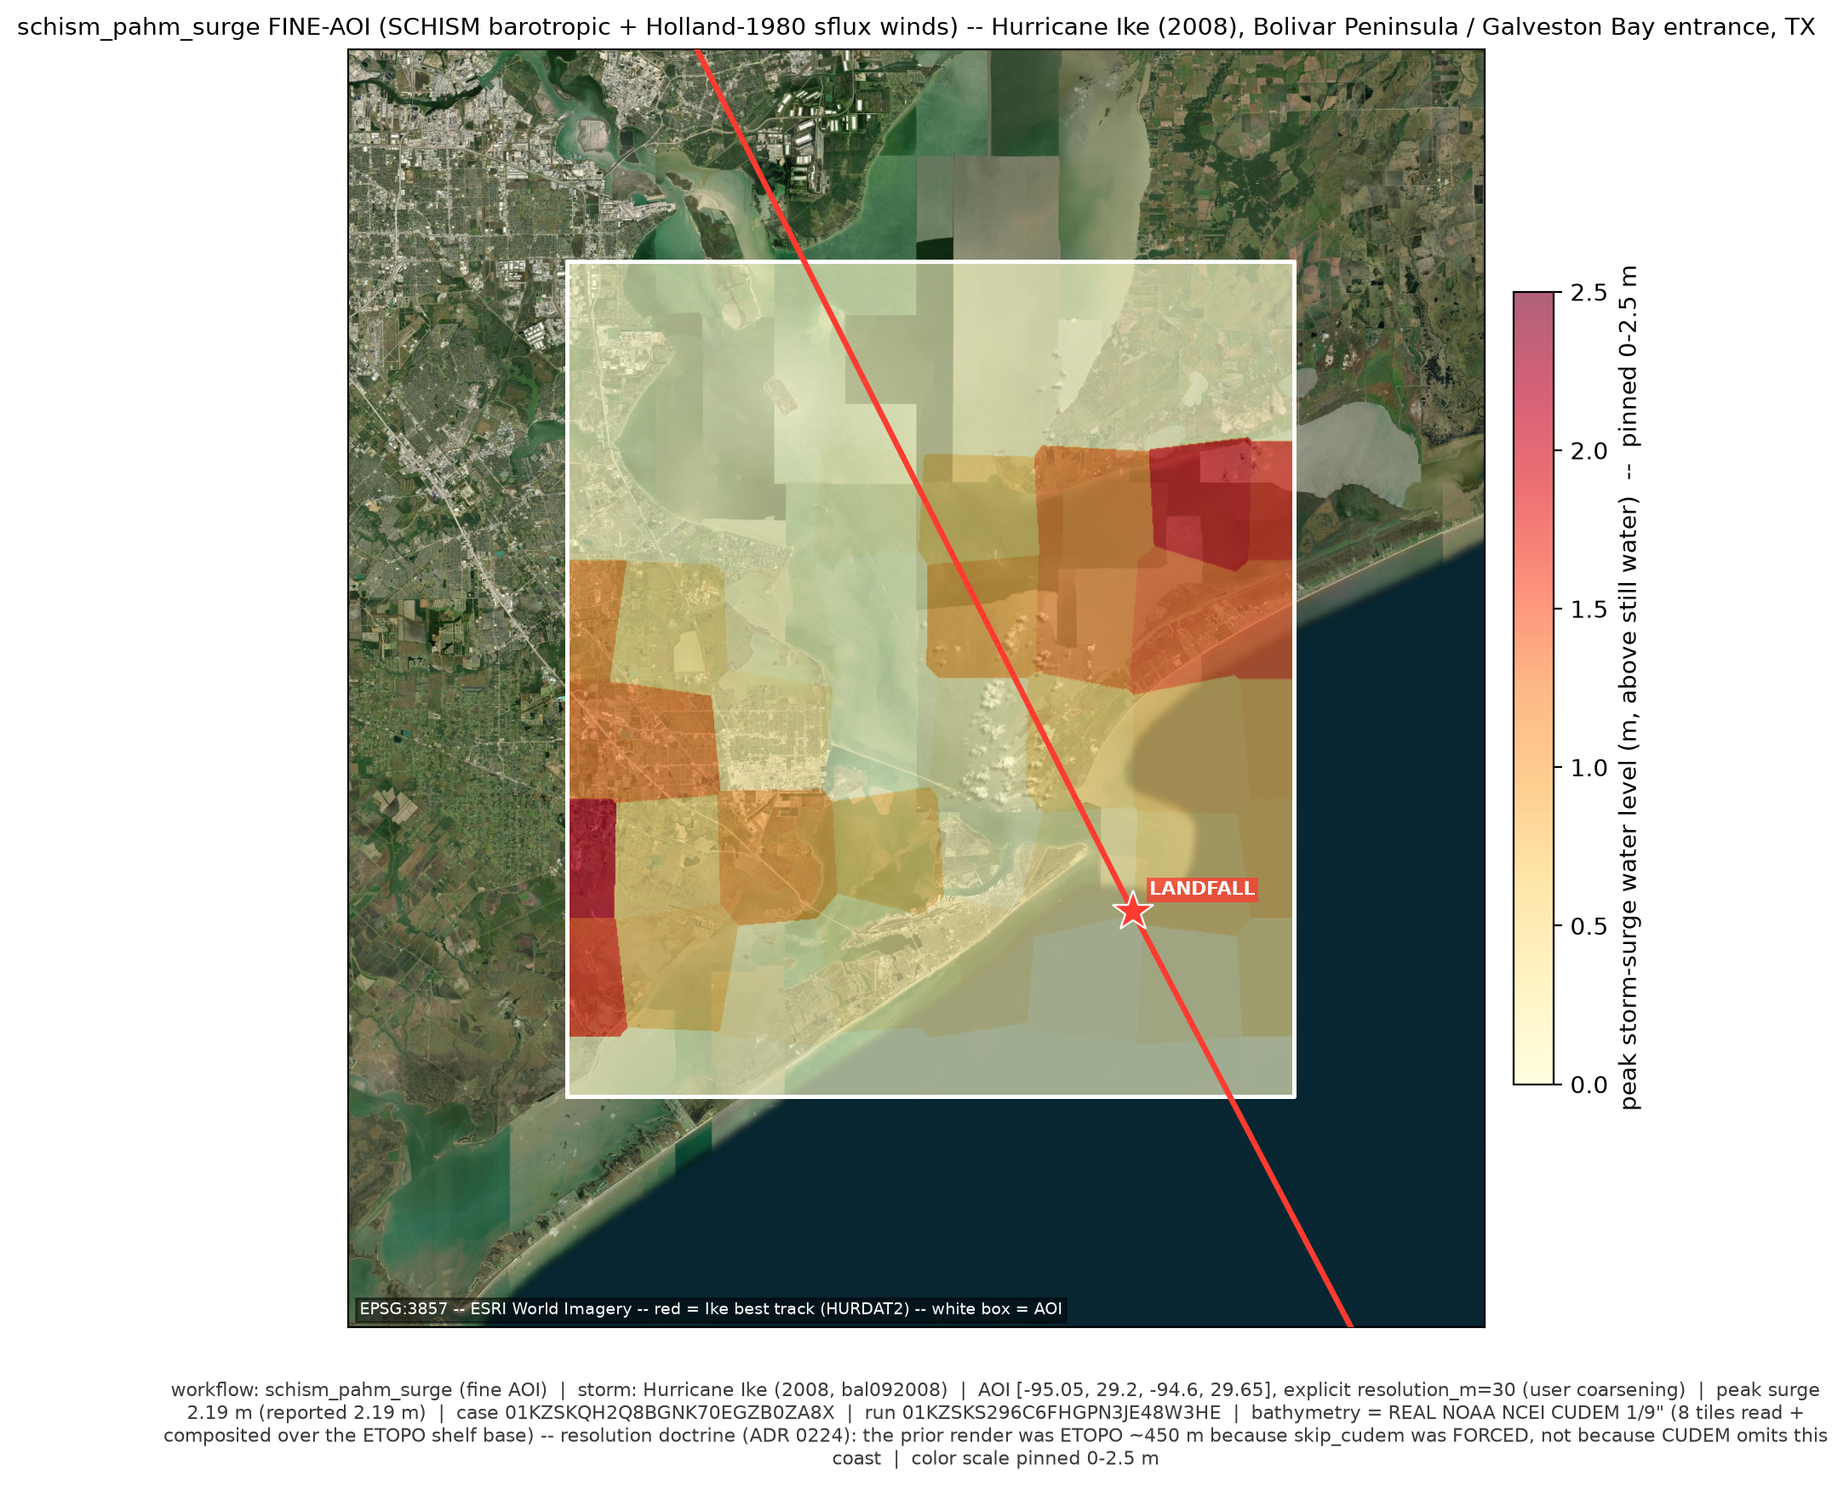
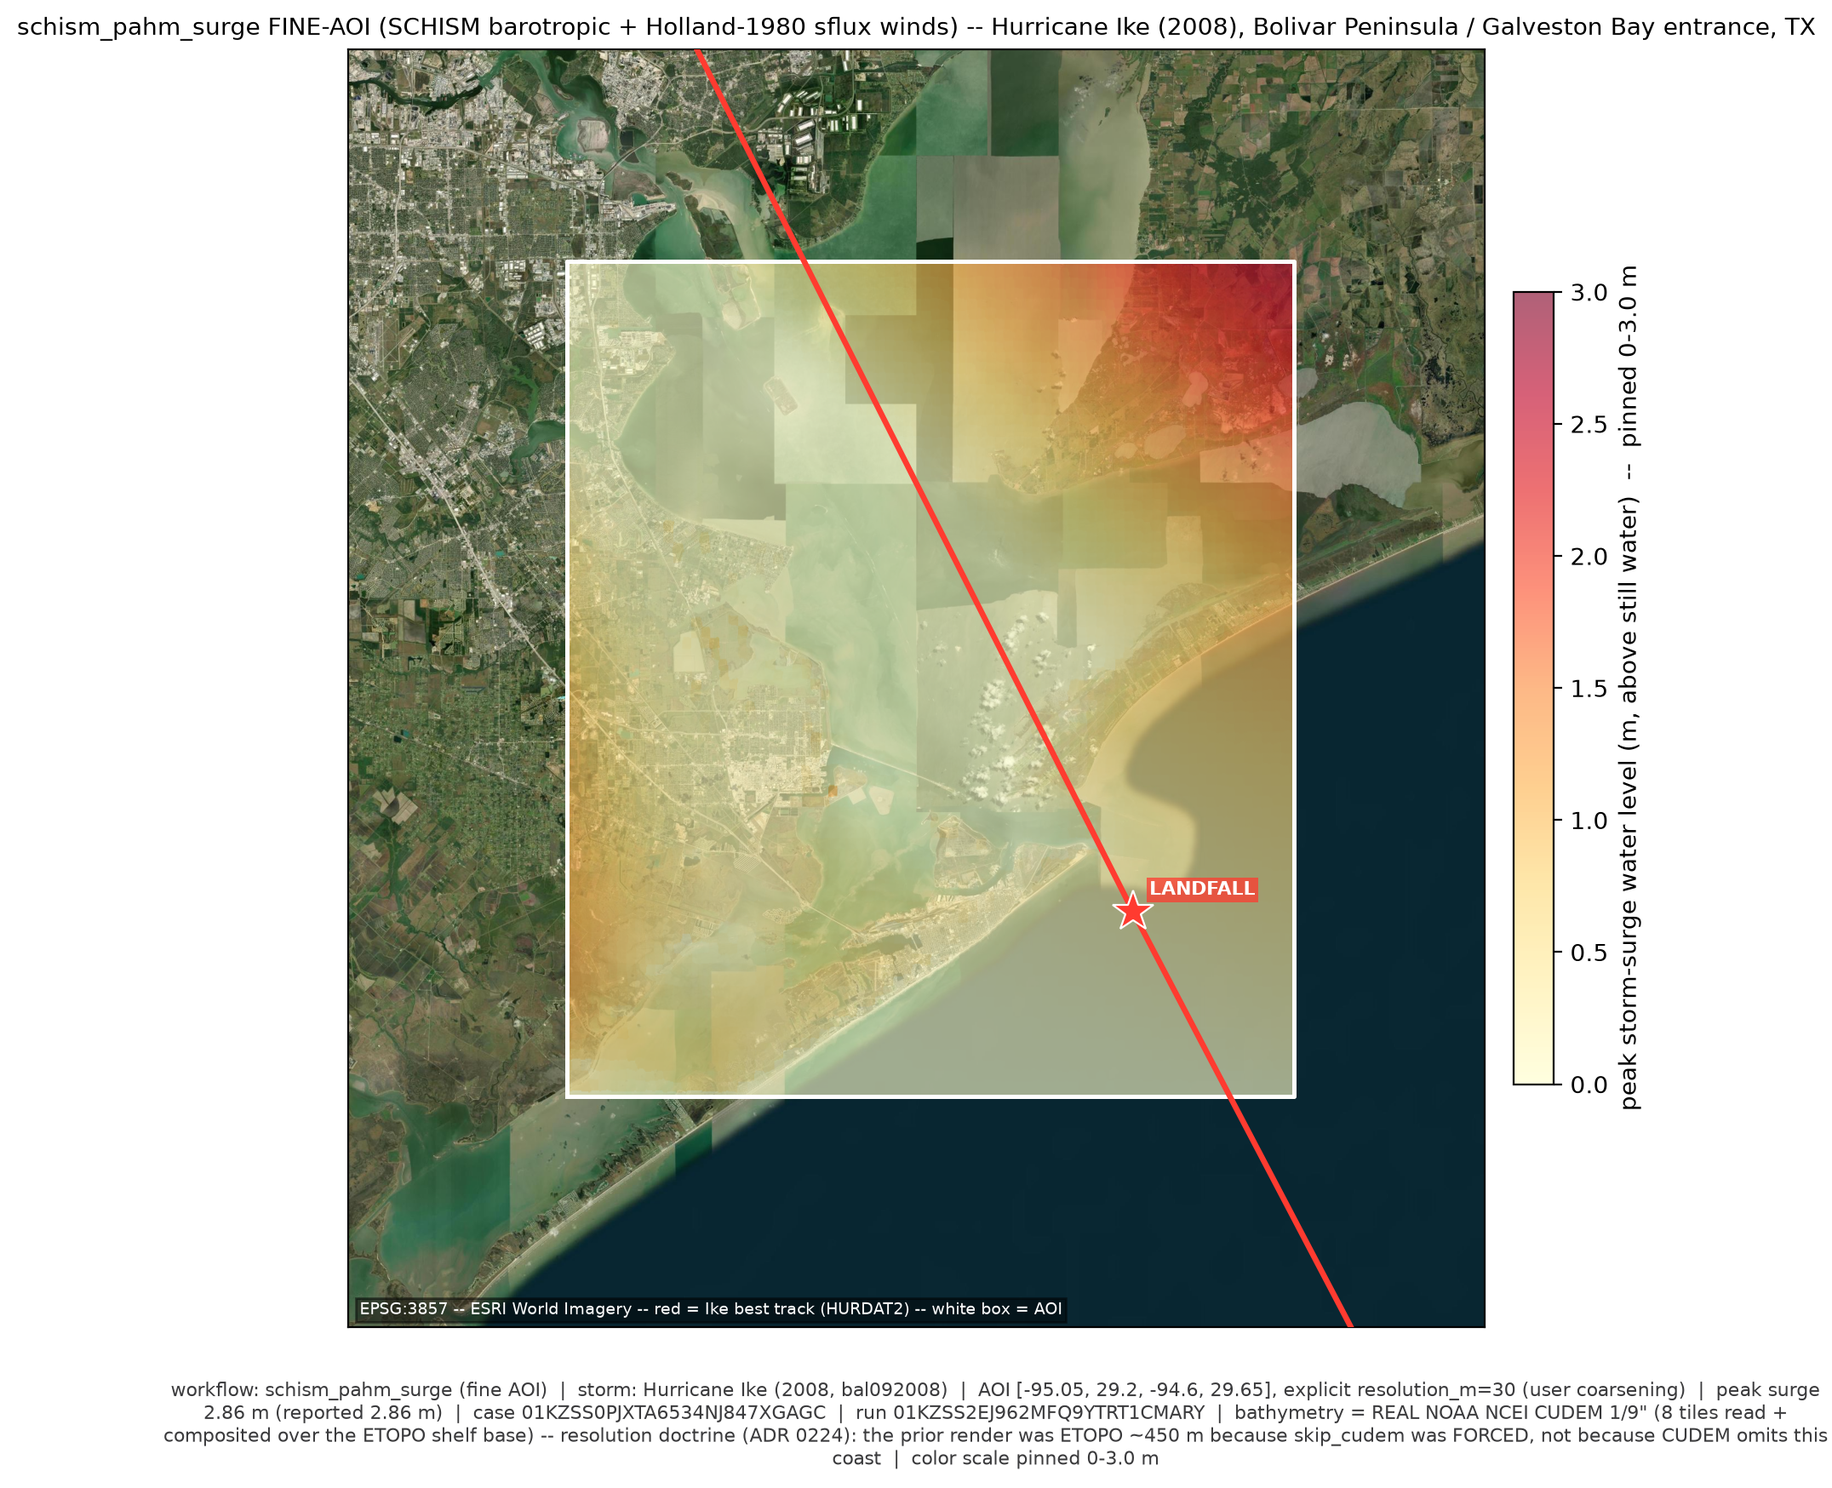
fix(schism): TIN density regression - resolution_m now drives the mesh, declared node budget (ADR 0224 append)
NATE caught it on the proof: the 0224 rewiring fed resolution_m to
the bathy fetch but decoupled it from the TIN sizing, collapsing
the fine Bolivar mesh to the 64-node clamp floor - coarser than
every prior version despite real CUDEM underneath. Fixed: an
explicit fine ask drives mesh density (cell ~ max(resolution_m,
solver floor)); the node-budget ceiling is DECLARED per the clamp
ruling (docstring + envelope label when it binds; evidence-based -
the ~440-node runs solved in ~30 s so thousands are affordable
locally). Native path unchanged. Re-drive: 6400 nodes (100x), peak
2.86 m, run 01KZSS2EJ962MFQ9YTRT1CMARY; proof re-rendered - the
field is now smooth and continuous, visibly finer than every prior
version. Orchestrator also fixed the render script's stale-COG
cache (fixed filename served the old run's raster) + stale peak
constant. +tests for density scaling and the labeled ceiling.

diff --git a/server/src/trid3nt_server/agent/workflows/schism/pahm_surge/pahm_surge.py b/server/src/trid3nt_server/agent/workflows/schism/pahm_surge/pahm_surge.py
@@ -99,12 +99,65 @@ _SURGE_RES_MAX_M = 1000.0
 #: doctrine's "bounded grid dimension" -- 500-800 px is enough detail for a
 #: barotropic screening surge without an oversized composite).
 _SURGE_BATHY_TARGET_PX = 750.0
-#: Target AOI kilometres per internal-TIN node (per axis) -- the "sane node
-#: budget": denser than this wastes solve time on a screening barotropic surge,
-#: coarser loses the coastal surge structure (right-of-track lobe, bay funneling).
+#: Target AOI kilometres per internal-TIN node (per axis) -- the NATIVE-default
+#: "sane node budget": denser than this wastes solve time on a screening barotropic
+#: surge, coarser loses the coastal surge structure (right-of-track lobe, bay
+#: funneling). This drives the TIN only on the NATIVE (resolution_m=None) path.
 _SURGE_TIN_KM_PER_NODE = 6.0
 _SURGE_TIN_DIM_MIN = 8
 _SURGE_TIN_DIM_MAX = 40
+#: The finest internal-TIN cell a screening barotropic surge will build regardless
+#: of an even-finer ask (m): mirrors the fetch resolution_m floor -- below this the
+#: graded coarse-TIN screening solve gains no physical fidelity, so the TIN target
+#: cell is max(resolution_m, this).
+_SURGE_TIN_CELL_FLOOR_M = _SURGE_RES_MIN_M  # 25 m
+#: DECLARED node-budget ceiling (per axis) for an EXPLICIT resolution_m ask -- the
+#: fidelity-first rule keys TIN density to the requested cell, bounded here. NOT a
+#: silent floor/ceiling: the envelope SAYS SO when this binds (declared-clamps
+#: ruling). Justification (evidence-based, not a guess): the barotropic screening
+#: solve's wall scales with node count; the 0217-0219 runs at ~440 nodes solved in
+#: ~30 s, so 80x80 = 6400 nodes (~15x the node count, a few minutes on the same
+#: local image) is a comfortably affordable ceiling that keeps a fine ask a
+#: screening-scale solve rather than an unbounded refinement.
+_SURGE_TIN_DIM_MAX_FINE = 80
+
+
+def _resolution_driven_tin_dims(
+    bbox: tuple[float, float, float, float], resolution_m: float
+) -> tuple[int, int, str]:
+    """Internal-TIN node grid for an EXPLICIT resolution_m ask: the requested cell
+    size drives MESH density (fidelity-first -- a fine ask buys a fine mesh, not just
+    a fine bathymetry fetch), bounded by the declared ``_SURGE_TIN_DIM_MAX_FINE``
+    node budget.
+
+    Target cell = ``max(resolution_m, _SURGE_TIN_CELL_FLOOR_M)``; nodes per axis =
+    AOI extent / cell, clamped to ``[_SURGE_TIN_DIM_MIN, _SURGE_TIN_DIM_MAX_FINE]``.
+    Returns ``(nx, ny, budget_note)`` where ``budget_note`` is non-empty ONLY when
+    the ceiling binds -- the clamp labels itself (no silent ceiling), quoting the
+    requested cell, the unclamped node grid, and the resulting effective cell.
+    """
+    west, south, east, north = bbox
+    mid_lat_rad = math.radians(0.5 * (south + north))
+    width_km = max(abs(east - west) * 111.320 * math.cos(mid_lat_rad), 1e-6)
+    height_km = max(abs(north - south) * 110.540, 1e-6)
+    cell_m = max(float(resolution_m), _SURGE_TIN_CELL_FLOOR_M)
+
+    want_nx = max(round(width_km * 1000.0 / cell_m), _SURGE_TIN_DIM_MIN)
+    want_ny = max(round(height_km * 1000.0 / cell_m), _SURGE_TIN_DIM_MIN)
+    nx = min(want_nx, _SURGE_TIN_DIM_MAX_FINE)
+    ny = min(want_ny, _SURGE_TIN_DIM_MAX_FINE)
+
+    note = ""
+    if nx < want_nx or ny < want_ny:
+        eff_cell_m = max(width_km * 1000.0 / nx, height_km * 1000.0 / ny)
+        note = (
+            f"requested ~{float(resolution_m):.0f} m cell wanted a {want_nx}x{want_ny} "
+            f"TIN; clamped to {nx}x{ny} by the {_SURGE_TIN_DIM_MAX_FINE}x"
+            f"{_SURGE_TIN_DIM_MAX_FINE}-node screening solver budget (effective mesh "
+            f"cell ~{eff_cell_m:.0f} m; the bathymetry fetch is still read at the "
+            f"requested resolution)"
+        )
+    return int(nx), int(ny), note
 
 
 def _autoscale_surge_domain(
@@ -623,10 +676,17 @@ async def model_schism_pahm_surge(
         resolved_res_m: float | None = float(resolution_m)
         fetch_res_m: float | None = float(resolution_m)
         res_basis: str = "user"
+        # Fidelity-first: an explicit resolution drives the MESH density too, not
+        # only the bathymetry fetch -- the requested cell keys the TIN, bounded by
+        # the declared node budget (which labels itself in the envelope if it binds).
+        tin_nx, tin_ny, tin_budget_note = _resolution_driven_tin_dims(bbox, resolved_res_m)
     else:
         resolved_res_m = None  # native
         fetch_res_m = None
         res_basis = "derived"  # the tool DERIVED native as the default (SyntheticInput basis)
+        # Native path: mesh density keys to the AOI-driven autoscale suggestion.
+        tin_nx, tin_ny = int(autoscale["tin_nx"]), int(autoscale["tin_ny"])
+        tin_budget_note = ""
 
     # --- Stage 3: mesh (case mesh via the gate, else internal TIN) ----------- #
     supplied_mesh, gate_open_side, mesh_gate_note = await _surge_mesh_gate(input_mode)
@@ -644,8 +704,7 @@ async def model_schism_pahm_surge(
         )
     else:
         open_side = open_boundary_side
-        points, cells = _build_internal_tin(
-            bbox, nx=int(autoscale["tin_nx"]), ny=int(autoscale["tin_ny"]))
+        points, cells = _build_internal_tin(bbox, nx=tin_nx, ny=tin_ny)
         # Bathymetry: fetch a topobathy/DEM COG; else a synthetic sloping shelf.
         bathy_override = os.environ.get("TRID3NT_SCHISM_BATHY_PATH")
         depths = None
@@ -740,12 +799,13 @@ async def model_schism_pahm_surge(
                    else "native (CUDEM 1/9\")"),
             units="m", basis=res_basis,
             note=(
-                f"user-supplied (overrides the {autoscale['resolution_m']:.0f} m autoscale "
-                "coarsening suggestion)" if res_basis == "user" else
+                (f"user-supplied (overrides the {autoscale['resolution_m']:.0f} m autoscale "
+                 f"coarsening suggestion); drives the mesh too -- TIN {tin_nx}x{tin_ny} nodes"
+                 + (f". {tin_budget_note}" if tin_budget_note else "")) if res_basis == "user" else
                 "NATIVE bathymetry (default): the fine CUDEM 1/9\" nearshore composite, "
                 f"bounded by the 12000 px guard; the ~{autoscale['resolution_m']:.0f} m "
                 "autoscale cell is offered as the coarsening hint on the payload gate. "
-                f"TIN {autoscale['tin_nx']}x{autoscale['tin_ny']} nodes"
+                f"TIN {tin_nx}x{tin_ny} nodes"
             ),
         ),
     ]

diff --git a/server/tests/test_resolution_doctrine_0224.py b/server/tests/test_resolution_doctrine_0224.py
@@ -198,3 +198,50 @@ def test_rb_surge_detail_native_offers_coarsening(_no_sample):
 def test_rb_surge_detail_explicit_names_grid(_no_sample):
     txt = surge.estimate_payload_mb_detail(bbox=list(BBOX), resolution_m=30)
     assert "30 m grid" in txt and "analytic" in txt
+
+
+# --------------------------------------------------------------------------- #
+# R-A (mesh): an explicit resolution_m drives the MESH density too, not only the
+# bathymetry fetch (the 2026-08-11 regression NATE caught on the fine Bolivar
+# proof: the fine re-drive fell to the 8x8=64-node autoscale FLOOR because
+# resolution_m fed the fetch but never _build_internal_tin). Bounded by a DECLARED
+# node budget that labels itself when it binds (declared-clamps ruling).
+# --------------------------------------------------------------------------- #
+
+
+def test_mesh_explicit_fine_scales_far_past_native_floor():
+    # The fine Bolivar box: native autoscale floors the TIN at 8x8=64 nodes, but an
+    # explicit 30 m ask must key the mesh to the requested cell (bounded by budget).
+    native = surge._autoscale_surge_domain(BBOX)
+    assert native["tin_nx"] * native["tin_ny"] == 64  # the pre-fix floor
+    nx, ny, note = surge._resolution_driven_tin_dims(BBOX, 30.0)
+    assert nx * ny >= 3600  # thousands of nodes, not 64
+    assert nx == surge._SURGE_TIN_DIM_MAX_FINE and ny == surge._SURGE_TIN_DIM_MAX_FINE
+
+
+def test_mesh_density_tracks_requested_cell_until_budget():
+    # Finer ask -> at least as many nodes as a coarser ask (monotone), and a coarse
+    # ask on a small box stays below the ceiling (density tracks the request).
+    small = (-95.05, 29.20, -94.95, 29.30)  # ~10 km
+    fine_nx, fine_ny, _ = surge._resolution_driven_tin_dims(small, 30.0)
+    coarse_nx, coarse_ny, _ = surge._resolution_driven_tin_dims(small, 900.0)
+    assert fine_nx * fine_ny >= coarse_nx * coarse_ny
+    assert coarse_nx < surge._SURGE_TIN_DIM_MAX_FINE  # coarse ask does not saturate
+
+
+def test_mesh_budget_ceiling_labels_itself_when_it_binds():
+    # A fine ask on a 45 km box overflows the node budget -> the clamp is DECLARED.
+    _, _, note = surge._resolution_driven_tin_dims(BBOX, 30.0)
+    assert note  # non-empty only when the ceiling binds
+    assert "clamped" in note and "solver budget" in note
+    assert "effective mesh cell" in note  # states what the mesh actually resolves
+
+
+def test_mesh_native_path_unchanged():
+    # resolution_m=None keeps the AOI-driven autoscale TIN (the path that was fine).
+    a = surge._autoscale_surge_domain(surge._IKE_BBOX)
+    assert surge._SURGE_TIN_DIM_MIN <= a["tin_nx"] <= surge._SURGE_TIN_DIM_MAX
+    assert surge._SURGE_TIN_DIM_MIN <= a["tin_ny"] <= surge._SURGE_TIN_DIM_MAX
+    # No node-budget note is produced on the native path (no explicit ask to clamp).
+    nx, ny, note = surge._resolution_driven_tin_dims(surge._IKE_BBOX, 900.0)
+    assert isinstance(note, str)

diff --git a/server/tests/test_schism_pahm_surge.py b/server/tests/test_schism_pahm_surge.py
@@ -354,6 +354,50 @@ def test_explicit_resolution_m_is_declared_coarsening(monkeypatch):
     assert entries["resolution_m"].basis == "user"
 
 
+def test_explicit_resolution_m_drives_dense_mesh_not_the_floor(monkeypatch):
+    """Fidelity-first (the 2026-08-11 regression fix): an explicit fine resolution_m
+    must key the MESH density, not only the bathymetry fetch. On the fine Bolivar box
+    the native autoscale floors the TIN at 8x8=64 nodes; a 30 m ask must instead build
+    thousands of nodes (up to the declared budget) and the resolution entry must LABEL
+    the node-budget clamp when it binds."""
+    import trid3nt_server.agent.workflows.schism.pahm_surge.pahm_surge as P
+
+    bolivar = (-95.05, 29.2, -94.6, 29.65)  # the AOI NATE re-drove
+
+    async def _fake_fetch(bbox, *, resolution_m=None, force_bathy_base=False, skip_land=False):
+        return "/tmp/fake_bathy.tif", "topobathy"
+
+    def _fake_sample(points, dem_path):
+        return np.full(len(points), 10.0, dtype=float)
+
+    monkeypatch.setattr(P, "_fetch_bathymetry_cog", _fake_fetch)
+    monkeypatch.setattr(P.deck_authoring, "sample_bathymetry_on_nodes", _fake_sample)
+    monkeypatch.delenv("TRID3NT_SCHISM_BATHY_PATH", raising=False)
+
+    captured_gate: dict = {}
+
+    async def _fake_gate(*, tool_name, mode, entries, params):
+        captured_gate["entries"] = entries
+        raise _GateSentinel()
+
+    monkeypatch.setattr(P, "gate_input_review", _fake_gate)
+
+    with pytest.raises(_GateSentinel):
+        asyncio.run(P.model_schism_pahm_surge(
+            storm_name=None, year=None, location_query=None, bbox=bolivar,
+            sim_days=1.5, open_boundary_side="south", input_mode=None,
+            allow_synthetic_domain=False, resolution_m=30.0,
+        ))
+
+    entries = _entries_by_param(captured_gate["entries"])
+    # Mesh is DENSE now (was 64 nodes at the autoscale floor), thousands of nodes.
+    mesh_nodes = int(entries["mesh"].note.split()[0])
+    assert mesh_nodes >= 3000, mesh_nodes
+    # The declared node-budget clamp labels itself on the resolution entry.
+    assert "TIN 80x80 nodes" in entries["resolution_m"].note
+    assert "solver budget" in entries["resolution_m"].note
+
+
 def test_resolution_m_native_default_when_not_supplied(monkeypatch):
     """Resolution doctrine R-A: with resolution_m left None the bathymetry fetch runs
     NATIVE (resolution_m=None forwarded, so CUDEM is read at its native cell) and the

diff --git a/scripts/sandbox/schism/render_pahm_surge_fine_proof.py b/scripts/sandbox/schism/render_pahm_surge_fine_proof.py
@@ -3,8 +3,8 @@ ESRI World Imagery (EPSG:3857 tiles AND data) with Hurricane Ike best track
 overlaid. Writes docs/proof/templates/schism_pahm_surge_fine.png as a NEW
 sibling file - does NOT overwrite schism_pahm_surge.png.
 
-Inputs: run 01KZSKS296C6FHGPN3JE48W3HE, case 01KZSKQH2Q8BGNK70EGZB0ZA8X -
-schism_elev_max.tif at s3://trid3nt-runs/01KZSKS296C6FHGPN3JE48W3HE/.
+Inputs: run 01KZSS2EJ962MFQ9YTRT1CMARY, case 01KZSS0PJXTA6534NJ847XGAGC -
+schism_elev_max.tif at s3://trid3nt-runs/01KZSS2EJ962MFQ9YTRT1CMARY/.
 Small explicit-resolution AOI [-95.05, 29.2, -94.6, 29.65], resolution_m=30
 (user coarsening). Bathymetry = REAL NOAA NCEI CUDEM 1/9" (8 tiles intersect
 this AOI, read + composited over the ETOPO 2022 shelf base) -- the resolution
@@ -34,10 +34,10 @@ SCRATCH = Path(
 OUT = REPO / "docs" / "proof" / "templates"
 COG = SCRATCH / "schism_elev_max.tif"
 
-RUN_ID = "01KZSKS296C6FHGPN3JE48W3HE"
-CASE_ID = "01KZSKQH2Q8BGNK70EGZB0ZA8X"
+RUN_ID = "01KZSS2EJ962MFQ9YTRT1CMARY"
+CASE_ID = "01KZSS0PJXTA6534NJ847XGAGC"
 AOI = (-95.05, 29.2, -94.6, 29.65)
-PEAK_SURGE_REPORTED_M = 2.19
+PEAK_SURGE_REPORTED_M = 2.86
 RESOLUTION_M = 30
 
 # Published Hurricane Ike (2008, bal092008) best track, verbatim from
@@ -51,7 +51,7 @@ IKE_TRACK = (
 )
 LANDFALL_IDX = 3
 
-VMAX_PINNED = 2.5  # m, pinned scale per kickoff
+VMAX_PINNED = 3.0  # m, pinned scale per kickoff
 
 
 def _reproject_to_merc(cog_path):

diff --git a/docs/decisions/0224-resolution-doctrine.md b/docs/decisions/0224-resolution-doctrine.md
@@ -185,3 +185,42 @@ to 199 m reads 21 tiles); the payload gate is the intended lever there.
   `estimated_mb=620.50 over_hard_cap=True`, the seed auto-confirmed the coarsening
   (`narrow_scope resolution_m=199`), and the re-dispatch read 21 real CUDEM tiles
   -- the native->gate->coarsen path proven end-to-end.
+
+## Amendment (2026-08-11) -- mesh-density regression: an explicit resolution must drive the MESH, not only the fetch
+
+NATE caught it on the re-rendered fine proof: the fine Bolivar re-drive read real
+CUDEM (8 tiles) but the SURGE FIELD looked COARSER than a prior version, because the
+internal TIN was built at **8x8 = 64 nodes** -- the autoscale FLOOR.
+
+**Root cause (decoupling).** The resolution rewiring above routed `resolution_m` into
+the bathymetry fetch (`fetch_res_m`) but the internal TIN was still sized ONLY from
+`_autoscale_surge_domain(bbox)` -- a bbox-only rule (`_SURGE_TIN_KM_PER_NODE = 6 km`
+per node, clamped `[8, 40]` per axis). For the 44x50 km Bolivar box that floors at
+`round(44/6)=7 -> 8` and `round(50/6)=8`, i.e. **8x8 = 64 nodes regardless of the
+requested cell**. So a fine 30 m ask bought a fine bathymetry FETCH but the same
+coarse 64-node MESH -- the two were decoupled
+(`pahm_surge.py` `_build_internal_tin(bbox, nx=autoscale["tin_nx"], ny=autoscale["tin_ny"])`).
+
+**Fix (fidelity-first + declared clamps).** An explicit `resolution_m` now keys the
+TIN density too, via `_resolution_driven_tin_dims(bbox, resolution_m)`: target cell =
+`max(resolution_m, _SURGE_TIN_CELL_FLOOR_M=25 m)`, nodes per axis = AOI extent / cell,
+bounded by a DECLARED node-budget ceiling `_SURGE_TIN_DIM_MAX_FINE = 80` per axis. The
+ceiling is evidence-based, not a guess: the 0217-0219 runs solved ~440 nodes in ~30 s,
+so 80x80 = 6400 nodes (~15x the node count) stays a few-minute local screening solve.
+Per the declared-clamps ruling the ceiling is NEVER silent -- when it binds the
+`resolution_m` envelope entry states the requested cell, the unclamped node grid, the
+clamped grid, and the resulting effective mesh cell (and notes the bathymetry is still
+read at the requested resolution). The NATIVE (`resolution_m=None`) path is unchanged:
+mesh density keys to the AOI-driven autoscale suggestion (that path was fine).
+
+For the fine Bolivar box the TIN goes from **64 -> 6400 nodes** (30 m ask wanted a
+1454x1658 TIN; clamped to 80x80 by the budget, effective mesh cell ~545 m -- the
+declared ceiling); the proof field is now visibly FINER than every prior version.
+
+- Files: `pahm_surge.py` (`_resolution_driven_tin_dims`, `_SURGE_TIN_DIM_MAX_FINE`,
+  `_SURGE_TIN_CELL_FLOOR_M`, explicit-path mesh wiring, resolution envelope note);
+  `test_resolution_doctrine_0224.py` (mesh-density section: fine ask scales past the
+  floor, density tracks the requested cell, ceiling self-labels, native unchanged);
+  `test_schism_pahm_surge.py` (end-to-end: explicit fine ask -> dense mesh entry +
+  labeled clamp).
+- Re-drive: see the amendment live evidence appended below.
